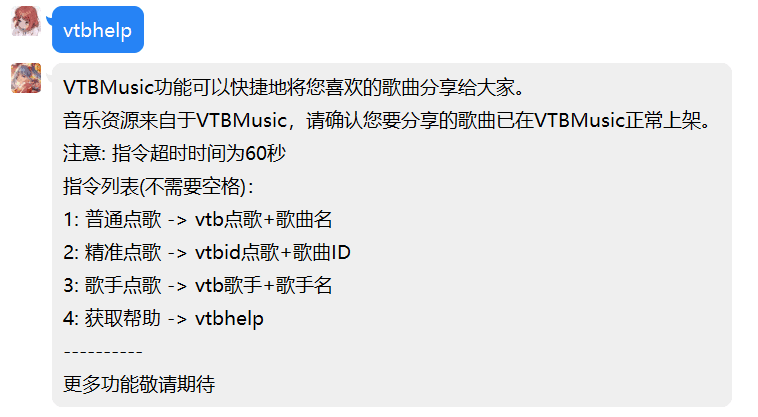
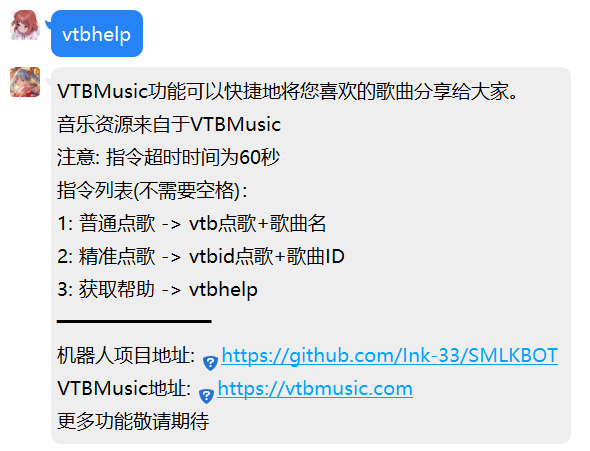
Refactor VTBMusic.

Changed region(s): [[0.0, 0.1247, 0.9458, 0.9664], [0.0, 0.0, 0.2441, 0.1247]]

diff --git a/vtbmusic/vtbmusic.go b/vtbmusic/vtbmusic.go
@@ -9,6 +9,8 @@ import (
 	"strconv"
 	"strings"
 	"time"
+
+	"github.com/tidwall/gjson"
 )
 
 type msgtype struct {
@@ -39,36 +41,10 @@ func VTBMusic(MsgInfo *botstruct.MsgInfo, BotConfig *botstruct.BotConfig) {
 	case 1:
 		log.SetPrefix("VTBMusic: ")
 		log.Println("Known command:", mt.content)
-		list := GetVTBMusicList(mt.content)
-		var msgMake string
-		if list.Total == 0 {
-			msgMake = "[CQ:at,qq=" + MsgInfo.SenderID + "]\n《" + mt.content + "》没有在VtbMusic上找到结果。获取使用帮助请发送vtbhelp"
-		} else {
-			msgMake = "[CQ:at,qq=" + MsgInfo.SenderID + "]\n《" + mt.content + "》共找到" + strconv.FormatInt(list.Total, 10) + "个结果:\n" + listtoMsg(list) + "\n━━━━━━━━━━━━━━\n发送歌曲对应序号即可播放"
-			counter++
-			w := new(waitingChan)
-			w.isNewRequest = true
-			w.RequestSenderID = MsgInfo.SenderID
-			w.MsgInfo = *MsgInfo
-			w.isTimeOut = false
-			waiting <- w
-			go waitingFunc(list, MsgInfo, BotConfig)
-		}
-		switch MsgInfo.MsgType {
-		case "private":
-			go cqfunction.CQSendPrivateMsg(MsgInfo.SenderID, msgMake, BotConfig)
-			break
-		case "group":
-			if list.Total <= 30 {
-				go cqfunction.CQSendGroupMsg(MsgInfo.GroupID, msgMake, BotConfig)
-			} else {
-				msgMake = "[CQ:at,qq=" + MsgInfo.SenderID + "]\n《" + mt.content + "》共找到" + strconv.FormatInt(list.Total, 10) + "个结果:\n" + listtoMsg(list) + "\n━━━━━━━━━━━━━━\n请在原群聊发送歌曲对应序号即可播放"
-				msgtoGroup := "[CQ:at,qq=" + MsgInfo.SenderID + "]\n《" + mt.content + "》共找到" + strconv.FormatInt(list.Total, 10) + "个结果。为防止打扰到他人，本消息采用私聊推送，请检查私信。"
-				go cqfunction.CQSendGroupMsg(MsgInfo.GroupID, msgtoGroup, BotConfig)
-				go cqfunction.CQSendPrivateMsg(MsgInfo.SenderID, msgMake, BotConfig)
-			}
-			break
-		}
+		list1 := GetVTBMusicList(mt.content)
+		list2 := GetVTBVocalList(mt.content)
+		listmsg, listarray := listtoMsg(list1, list2)
+		sendmsg(MsgInfo, BotConfig, &listmsg, listarray, mt)
 		break
 	case 2:
 		log.SetPrefix("VTBMusic: ")
@@ -91,56 +67,17 @@ func VTBMusic(MsgInfo *botstruct.MsgInfo, BotConfig *botstruct.BotConfig) {
 	case 4:
 		log.SetPrefix("VTBMusic: ")
 		log.Println("Known command:", mt.content)
-		var msgMake string
-		if mt.content == "" {
-			msgMake = "[CQ:at,qq=" + MsgInfo.SenderID + "]\n命令格式错误，请发送vtbhelp获取帮助"
-			cqfunction.CQSendMsg(MsgInfo, msgMake, BotConfig)
-			break
-		}
-		list := GetVTBVocalList(mt.content)
-		if list.Total == 0 {
-			msgMake = "[CQ:at,qq=" + MsgInfo.SenderID + "]\n\"" + mt.content + "\"没有在VtbMusic上找到结果。获取使用帮助请发送vtbhelp"
-		} else {
-			msgMake = "[CQ:at,qq=" + MsgInfo.SenderID + "]\n\"" + mt.content + "\"共找到" + strconv.FormatInt(list.Total, 10) + "个结果:\n" + listtoMsg(list) + "\n━━━━━━━━━━━━━━\n发送歌曲对应序号即可播放"
-			counter++
-			w := new(waitingChan)
-			w.isNewRequest = true
-			w.RequestSenderID = MsgInfo.SenderID
-			w.MsgInfo = *MsgInfo
-			w.isTimeOut = false
-			waiting <- w
-			go waitingFunc(list, MsgInfo, BotConfig)
-		}
-		switch MsgInfo.MsgType {
-		case "private":
-			go cqfunction.CQSendPrivateMsg(MsgInfo.SenderID, msgMake, BotConfig)
-			break
-		case "group":
-			if list.Total <= 30 {
-				go cqfunction.CQSendGroupMsg(MsgInfo.GroupID, msgMake, BotConfig)
-			} else {
-				msgMake = "[CQ:at,qq=" + MsgInfo.SenderID + "]\n\"" + mt.content + "\"共找到" + strconv.FormatInt(list.Total, 10) + "个结果:\n" + listtoMsg(list) + "\n━━━━━━━━━━━━━━\n请在原群聊发送歌曲对应序号即可播放"
-				msgtoGroup := "[CQ:at,qq=" + MsgInfo.SenderID + "]\n\"" + mt.content + "\"共找到" + strconv.FormatInt(list.Total, 10) + "个结果。为防止打扰到他人，本消息采用私聊推送，请检查私信。"
-				go cqfunction.CQSendGroupMsg(MsgInfo.GroupID, msgtoGroup, BotConfig)
-				go cqfunction.CQSendPrivateMsg(MsgInfo.SenderID, msgMake, BotConfig)
-			}
-			break
-		}
-		break
-	case 5:
-		log.SetPrefix("VTBMusic: ")
-		log.Println("Known command:", mt.content)
 		list := GetVTBMusicDetail(mt.content)
 		var msgMake string
 		if list.Total == 0 {
 			msgMake = "[CQ:at,qq=" + MsgInfo.SenderID + "]\nid:" + mt.content + "没有在VtbMusic上找到结果。获取使用帮助请发送vtbhelp"
 		} else {
-			info := getMusicDetail(list, 1)
+			info := getMusicDetail(list.Data, 1)
 			msgMake = "[CQ:music,type=custom,url=https://vtbmusic.com/?song_id=" + info.MusicID + ",audio=" + info.MusicURL + ",title=" + info.MusicName + ",content=" + info.MusicVocal + ",image=" + info.Cover + "]"
 		}
 		cqfunction.CQSendMsg(MsgInfo, msgMake, BotConfig)
 		break
-	case 6:
+	case 5:
 		log.SetPrefix("VTBMusic: ")
 		log.Println("Known command:", mt.content)
 		switch MsgInfo.MsgType {
@@ -184,45 +121,42 @@ func msgHandler(msg string) (Msgtype *msgtype) {
 		mt.content = msg
 		return mt
 	}
-	if strings.HasPrefix(msg, "vtb歌手") {
-		if strings.HasPrefix(msg, "vtb歌手 ") {
-			mt.content = strings.Replace(msg, "vtb歌手 ", "", 1)
-		} else {
-			mt.content = strings.Replace(msg, "vtb歌手", "", 1)
-		}
-		mt.ctype = 4
-		return mt
-	}
+
 	if strings.HasPrefix(msg, "vtbid点歌") {
 		if strings.HasPrefix(msg, "vtbid点歌 ") {
 			mt.content = strings.Replace(msg, "vtbid点歌 ", "", 1)
 		} else {
 			mt.content = strings.Replace(msg, "vtbid点歌", "", 1)
 		}
-		mt.ctype = 5
+		mt.ctype = 4
 		return mt
 	}
 	if msg == "vtbhelp" {
-		mt.ctype = 6
+		mt.ctype = 5
 		mt.content = "Get help"
 		return mt
 	}
 	return mt
 }
 
-func listtoMsg(list *botstruct.VTBMusicList) string {
+func listtoMsg(list ...*botstruct.VTBMusicList) (ListMsg string, ListArray []gjson.Result) {
 	var q []string
-	for i, r := range list.Data {
-		t := strconv.Itoa(i+1) + "," + r.Get("vocal").String() + "-" + r.Get("name").String()
-		q = append(q, t)
-		if int64(i+1) == list.Total {
-			return strings.Join(q, "\n")
+	var listreturn []gjson.Result
+	for _, v := range list {
+		for i, r := range v.Data {
+			listreturn = append(listreturn, r.Get("@this"))
+			t := strconv.Itoa(i+1) + "," + r.Get("vocal").String() + "-" + r.Get("name").String()
+			q = append(q, t)
+			if int64(i+1) == v.Total {
+				break
+			}
 		}
 	}
-	return ""
+
+	return strings.Join(q, "\n"), listreturn
 }
 
-func waitingFunc(list *botstruct.VTBMusicList, MsgInfo *botstruct.MsgInfo, BotConfig *botstruct.BotConfig) {
+func waitingFunc(list []gjson.Result, MsgInfo *botstruct.MsgInfo, BotConfig *botstruct.BotConfig) {
 	go func(MsgInfo *botstruct.MsgInfo) {
 		time.Sleep(60 * time.Second)
 		wc := new(waitingChan)
@@ -244,7 +178,7 @@ func waitingFunc(list *botstruct.VTBMusicList, MsgInfo *botstruct.MsgInfo, BotCo
 			if err != nil {
 				log.Fatalln(err)
 			}
-			if int64(index) <= list.Total && int64(index) > 0 {
+			if index <= len(list) && index > 0 {
 				if c.SenderID == MsgInfo.SenderID && c.MsgType == MsgInfo.MsgType {
 					switch c.MsgType {
 					case "private":
@@ -269,20 +203,20 @@ func waitingFunc(list *botstruct.VTBMusicList, MsgInfo *botstruct.MsgInfo, BotCo
 	}
 }
 
-func getMusicDetail(list *botstruct.VTBMusicList, index int) (info *botstruct.VTBMusicInfo) {
+func getMusicDetail(list []gjson.Result, index int) (info *botstruct.VTBMusicInfo) {
 	i := new(botstruct.VTBMusicInfo)
-	i.MusicID = list.Data[index-1].Get("Id").String()
-	i.MusicVocal = strings.ReplaceAll(list.Data[index-1].Get("vocal").String(), ",", "、")
-	i.MusicName = list.Data[index-1].Get("name").String()
-	if strings.Contains(list.Data[index-1].Get("CDN").String(), ":") {
+	i.MusicID = list[index-1].Get("Id").String()
+	i.MusicVocal = strings.ReplaceAll(list[index-1].Get("vocal").String(), ",", "、")
+	i.MusicName = list[index-1].Get("name").String()
+	if strings.Contains(list[index-1].Get("CDN").String(), ":") {
 		reg := regexp.MustCompile("(\\d+):(\\d+):(\\d+)")
-		match := reg.FindStringSubmatch(list.Data[index-1].Get("CDN").String())
-		i.Cover = GetVTBMusicCDN(match[1]) + list.Data[index-1].Get("img").String()
-		i.MusicURL = GetVTBMusicCDN(match[2]) + list.Data[index-1].Get("music").String()
+		match := reg.FindStringSubmatch(list[index-1].Get("CDN").String())
+		i.Cover = GetVTBMusicCDN(match[1]) + list[index-1].Get("img").String()
+		i.MusicURL = GetVTBMusicCDN(match[2]) + list[index-1].Get("music").String()
 	} else {
-		i.MusicCDN = GetVTBMusicCDN(list.Data[index-1].Get("CDN").String())
-		i.Cover = i.MusicCDN + list.Data[index-1].Get("img").String()
-		i.MusicURL = i.MusicCDN + list.Data[index-1].Get("music").String()
+		i.MusicCDN = GetVTBMusicCDN(list[index-1].Get("CDN").String())
+		i.Cover = i.MusicCDN + list[index-1].Get("img").String()
+		i.MusicURL = i.MusicCDN + list[index-1].Get("music").String()
 	}
 	return i
 }
@@ -296,4 +230,39 @@ func isNumber(str string) bool {
 		return result
 	}
 	return result
+}
+
+func sendmsg(MsgInfo *botstruct.MsgInfo, BotConfig *botstruct.BotConfig, listmsg *string, listarray []gjson.Result, Msgtype *msgtype) {
+	var msgMake string
+	lens := len(listarray)
+	if lens == 0 {
+		msgMake = "[CQ:at,qq=" + MsgInfo.SenderID + "]\n《" + Msgtype.content + "》没有在VtbMusic上找到结果。获取使用帮助请发送vtbhelp"
+	} else {
+		counter++
+		w := new(waitingChan)
+		w.isNewRequest = true
+		w.RequestSenderID = MsgInfo.SenderID
+		w.MsgInfo = *MsgInfo
+		w.isTimeOut = false
+		waiting <- w
+		go waitingFunc(listarray, MsgInfo, BotConfig)
+	}
+	switch MsgInfo.MsgType {
+	case "private":
+		if lens != 0 {
+			msgMake = "[CQ:at,qq=" + MsgInfo.SenderID + "]\n《" + Msgtype.content + "》共找到" + strconv.Itoa(lens) + "个结果:\n" + *listmsg + "\n━━━━━━━━━━━━━━\n发送歌曲对应序号即可播放"
+		}
+		go cqfunction.CQSendPrivateMsg(MsgInfo.SenderID, msgMake, BotConfig)
+		break
+	case "group":
+		if lens <= 15 {
+			go cqfunction.CQSendGroupMsg(MsgInfo.GroupID, msgMake, BotConfig)
+		} else {
+			msgMake = "[CQ:at,qq=" + MsgInfo.SenderID + "]\n《" + Msgtype.content + "》共找到" + strconv.Itoa(lens) + "个结果:\n" + *listmsg + "\n━━━━━━━━━━━━━━\n请在原群聊发送歌曲对应序号即可播放"
+			msgtoGroup := "[CQ:at,qq=" + MsgInfo.SenderID + "]\n《" + Msgtype.content + "》共找到" + strconv.Itoa(lens) + "个结果。为防止打扰到他人，本消息采用私聊推送，请检查私信。"
+			go cqfunction.CQSendGroupMsg(MsgInfo.GroupID, msgtoGroup, BotConfig)
+			go cqfunction.CQSendPrivateMsg(MsgInfo.SenderID, msgMake, BotConfig)
+		}
+		break
+	}
 }

diff --git a/help/help.go b/help/help.go
@@ -1,4 +1,4 @@
 package help
 
 //VTBMusic is the usage of VTBMusic function.
-const VTBMusic string = "VTBMusic功能可以快捷地将您喜欢的歌曲分享给大家。\n音乐资源来自于VTBMusic\n注意: 指令超时时间为60秒\n指令列表(不需要空格)：\n1: 普通点歌 -> vtb点歌+歌曲名\n2: 精准点歌 -> vtbid点歌+歌曲ID\n3: 歌手点歌 -> vtb歌手+歌手名\n4: 获取帮助 -> vtbhelp\n━━━━━━━━━━━━━━\n机器人项目地址: https://github.com/Ink-33/SMLKBOT \nVTBMusic地址: https://vtbmusic.com \n更多功能敬请期待"
+const VTBMusic string = "VTBMusic功能可以快捷地将您喜欢的歌曲分享给大家。\n音乐资源来自于VTBMusic\n注意: 指令超时时间为60秒\n指令列表(不需要空格)：\n1: 普通点歌 -> vtb点歌+歌曲名\n2: 精准点歌 -> vtbid点歌+歌曲ID\n3: 获取帮助 -> vtbhelp\n━━━━━━━━━━━━━━\n机器人项目地址: https://github.com/Ink-33/SMLKBOT \nVTBMusic地址: https://vtbmusic.com \n更多功能敬请期待"

diff --git a/main.go b/main.go
@@ -83,7 +83,7 @@ func HTTPhandler(w http.ResponseWriter, r *http.Request) {
 				bc.MasterID = gjson.Get(*configfile, "CoolQ.Master").Array()
 				log.SetPrefix("SMLKBOT: ")
 				go log.Println("RobotID:", rid, "Received message:", msgInfoTmp.Message, "from:", "User:", msgInfoTmp.SenderID, "Group:", msgInfoTmp.GroupID, "Role:", smlkshell.RoleHandler(msgInfoTmp, bc).RoleName)
-				if msgInfoTmp.Message == ">SMLK reload" {
+				if msgInfoTmp.Message == "<SMLK reload" {
 					if smlkshell.RoleHandler(msgInfoTmp, bc).RoleLevel == 3 {
 						configfile = cqfunction.ReadConfig()
 						log.Println("Succeed.")

diff --git a/README.md b/README.md
@@ -35,12 +35,7 @@ VTBMusic功能可以快捷地将您喜欢的歌曲分享给大家。所有音乐
 效果：  
 ![vtbid点歌](docs/vtb2.png) 
 ```
-3: 歌手点歌 -> vtb歌手+歌手名  
-```
-效果：  
-![vtb歌手](docs/vtb3.png) 
-```
-4: 获取帮助 -> vtbhelp
+3: 获取帮助 -> vtbhelp
 ```
 效果：  
 ![vtbhelp](docs/vtbhelp.png)  
